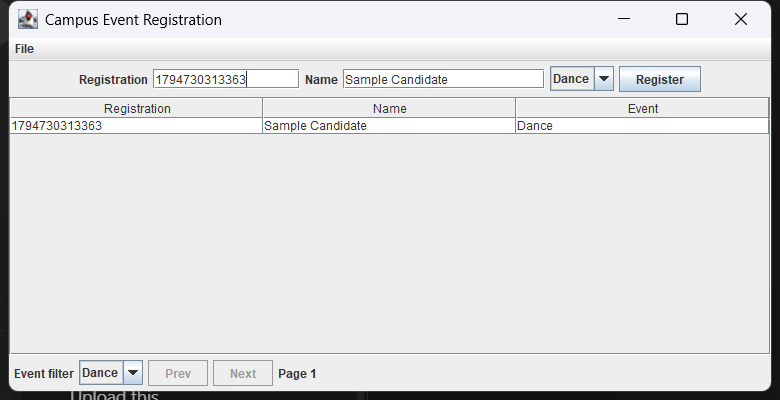
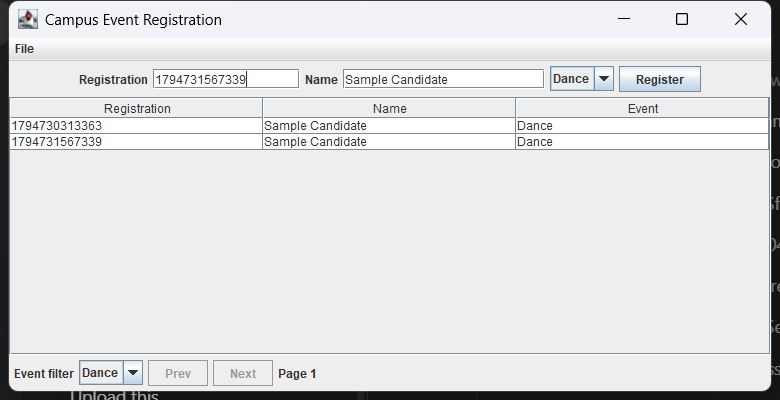
Assignment4: complete the evidence audit and index verified runs

diff --git a/scripts/GuiEvidence.java b/scripts/GuiEvidence.java
@@ -90,8 +90,18 @@ public final class GuiEvidence {
         await(() -> frame.status.getText().startsWith("Confirmed"), "Appointment completion");
         if (!edt(() -> frame.doctor.getSelectedItem().equals("Dr Khan"))) throw new AssertionError();
         capture(frame, "Task02", "successful_booking");
+        ui(() -> {
+            frame.slot.setSelectedItem("10:30");
+            frame.book.doClick();
+            EventQueue.invokeLater(() -> frame.dispatchEvent(new WindowEvent(frame, WindowEvent.WINDOW_CLOSING)));
+        });
+        JDialog confirmation = dialog(frame);
+        capture(confirmation, "Task02", "confirm_close_during_booking");
+        ui(confirmation::dispose);
+        if (!edt(frame::isShowing)) throw new AssertionError("Closing confirmation disposed the main window");
+        await(() -> frame.book.isEnabled(), "Second booking");
         ui(() -> frame.dispatchEvent(new WindowEvent(frame, WindowEvent.WINDOW_CLOSING)));
-        System.out.println("Appointments: department refresh, rejection, booking and window close verified.");
+        System.out.println("Appointments: department refresh, rejection, booking, close confirmation and cancellation verified.");
     }
 
     private static void library() throws Exception {
@@ -222,20 +232,74 @@ public final class GuiEvidence {
         await(() -> frame.status.getText().equals("Page 1"), "Filtered page");
         if (!edt(() -> frame.table.getRowCount() > 0 && frame.table.getValueAt(0, 2).equals("Dance"))) throw new AssertionError();
         capture(frame, "Task06", "event_filter");
-        Path exported = Files.createTempFile("registration-fixture", ".csv");
+        for (int i = 0; i < 30; i++) service.register(id + (100 + i), "Quiz fixture " + i, "Quiz");
+        ui(() -> frame.filter.setSelectedItem("Quiz"));
+        await(() -> frame.next.isEnabled(), "First quiz page");
+        if (!edt(() -> frame.table.getRowCount() == RegistrationDesk.PAGE)) throw new AssertionError("First page size");
+        ui(() -> frame.next.doClick());
+        await(() -> frame.status.getText().equals("Next page"), "Second quiz page");
+        if (!edt(() -> frame.prev.isEnabled() && frame.table.getRowCount() > 0
+                && frame.table.getRowCount() <= RegistrationDesk.PAGE)) throw new AssertionError("Second page controls");
+        capture(frame, "Task06", "second_page");
+        ui(() -> frame.prev.doClick());
+        await(() -> frame.status.getText().equals("Previous page"), "Return to first page");
+        Path exportDir = Files.createTempDirectory("registration-fixture");
+        Path exported = exportDir.resolve("quiz.csv");
         try {
-            int rows = service.export("Dance", exported);
-            if (rows == 0 || Files.readAllLines(exported, StandardCharsets.UTF_8).size() != rows + 1) throw new AssertionError();
-        } finally { Files.deleteIfExists(exported); }
+            ui(() -> EventQueue.invokeLater(() -> frame.getJMenuBar().getMenu(0).getItem(0).doClick()));
+            JDialog picker = dialog(frame);
+            JFileChooser chooser = edt(() -> findChooser(picker));
+            if (chooser == null) throw new AssertionError("File menu did not open a save chooser");
+            ui(() -> { chooser.setSelectedFile(exported.toFile()); chooser.approveSelection(); });
+            await(() -> frame.status.getText().startsWith("Exported "), "CSV export");
+            int rows = Integer.parseInt(edt(() -> frame.status.getText().split(" ")[1]));
+            if (rows < 30 || Files.readAllLines(exported, StandardCharsets.UTF_8).size() != rows + 1) {
+                throw new AssertionError("Export result mismatch");
+            }
+            capture(frame, "Task06", "csv_export_success");
+        } finally { Files.deleteIfExists(exported); Files.deleteIfExists(exportDir); }
         ui(frame::dispose);
-        System.out.println("Registration: live MySQL valid, invalid, duplicate, filter and CSV export verified.");
+        System.out.println("Registration: MySQL valid, invalid, duplicate, filter, next/previous and File menu CSV export verified.");
+    }
+
+    private static void drawMisspelling() throws Exception {
+        DrawPad frame = edt(() -> display(new DrawPad()));
+        Point base = edt(frame::getLocationOnScreen);
+        robot.mouseMove(base.x + 170, base.y + 105);
+        robot.mousePress(InputEvent.BUTTON1_DOWN_MASK);
+        robot.mouseRelease(InputEvent.BUTTON1_DOWN_MASK);
+        robot.delay(150);
+        if (!edt(() -> Arrays.stream(frame.getComponents()).filter(c -> c instanceof Label)
+                .anyMatch(c -> ((Label)c).getText().equals("Clicks: 0")))) {
+            throw new AssertionError("Expected misspelled callback to leave count unchanged");
+        }
+        capture(frame, "Task04", "misspelled_callback_output");
+        ui(frame::dispose);
+        System.out.println("Misspelled callback compiled without annotation. A real click left the count at zero.");
+    }
+    private static JFileChooser findChooser(Container parent) {
+        for (Component child : parent.getComponents()) {
+            if (child instanceof JFileChooser) return (JFileChooser) child;
+            if (child instanceof Container) {
+                JFileChooser found = findChooser((Container) child);
+                if (found != null) return found;
+            }
+        }
+        return null;
     }
 
     public static void main(String[] args) throws Exception {
         if (GraphicsEnvironment.isHeadless()) throw new IllegalStateException("Desktop unavailable");
         robot = new Robot();
         try {
-            fee(); appointments(); library(); draw(); converter(); registration();
+            if (args.length == 1 && args[0].equals("audit-extra")) {
+                appointments();
+                registration();
+            } else if (args.length == 1 && args[0].equals("misspelling")) {
+                drawMisspelling();
+            } else {
+                fee(); appointments(); library(); draw(); converter(); registration();
+            }
         } finally {
             ui(() -> { for (Window window : Window.getWindows()) window.dispose(); });
         }

diff --git a/EVIDENCE_AUDIT.md b/EVIDENCE_AUDIT.md
@@ -1,0 +1,18 @@
+# Evidence audit · Assignment 4
+
+Aftan Faiz · 192425004
+
+6 of 6 tasks meet the technical evidence checklist. 41 genuine PNGs are present.
+
+| Task | Java program filename | Compilation | Execution | Output verification | PNG count | Screenshot filenames | Missing requirements | Final status |
+|---|---|---|---|---|---:|---|---|---|
+| Task01 | [source/FeeServiceTest.java](Task01/source/FeeServiceTest.java)<br>[source/FeeWindow.java](Task01/source/FeeWindow.java) | Passed | Executed | Checks and captured outputs match | 6 | [compilation_success.png](Task01/evidence/compilation_success.png), [FeeServiceTest_run.png](Task01/evidence/FeeServiceTest_run.png), [invalid_registration.png](Task01/evidence/invalid_registration.png), [launch.png](Task01/evidence/launch.png), [receipt_dialog.png](Task01/evidence/receipt_dialog.png), [successful_payment.png](Task01/evidence/successful_payment.png) | None | COMPLETE |
+| Task02 | [source/AppointmentDesk.java](Task02/source/AppointmentDesk.java) | Passed | Executed | Checks and captured outputs match | 4 | [confirm_close_during_booking.png](Task02/evidence/confirm_close_during_booking.png), [invalid_patient.png](Task02/evidence/invalid_patient.png), [launch.png](Task02/evidence/launch.png), [successful_booking.png](Task02/evidence/successful_booking.png) | None | COMPLETE |
+| Task03 | [source/LibrarySearch.java](Task03/source/LibrarySearch.java) | Passed | Executed | Checks and captured outputs match | 3 | [library_480x280.png](Task03/evidence/library_480x280.png), [library_640x370.png](Task03/evidence/library_640x370.png), [library_820x500.png](Task03/evidence/library_820x500.png) | None | COMPLETE |
+| Task04 | [source/DrawPad.java](Task04/source/DrawPad.java)<br>[variants/no-annotation/DrawPad.java](Task04/variants/no-annotation/DrawPad.java)<br>[variants/with-annotation/DrawPad.java](Task04/variants/with-annotation/DrawPad.java) | Passed; expected failure captured | Executed | Expected annotated compile failure | 6 | [compiler_rejection.png](Task04/evidence/compiler_rejection.png), [dots_after_restore.png](Task04/evidence/dots_after_restore.png), [dots_before_minimize.png](Task04/evidence/dots_before_minimize.png), [launch.png](Task04/evidence/launch.png), [misspelled_callback_output.png](Task04/evidence/misspelled_callback_output.png), [misspelling_compiles.png](Task04/evidence/misspelling_compiles.png) | None | COMPLETE |
+| Task05 | [source/Converter.java](Task05/source/Converter.java)<br>[source/ConverterStyles.java](Task05/source/ConverterStyles.java) | Passed | Executed | Checks and captured outputs match | 15 | [anonymous_invalid_dialog.png](Task05/evidence/anonymous_invalid_dialog.png), [anonymous_original.png](Task05/evidence/anonymous_original.png), [anonymous_valid_dialog.png](Task05/evidence/anonymous_valid_dialog.png), [frame_invalid_dialog.png](Task05/evidence/frame_invalid_dialog.png), [frame_original.png](Task05/evidence/frame_original.png), [frame_valid_dialog.png](Task05/evidence/frame_valid_dialog.png), [lambda_invalid_dialog.png](Task05/evidence/lambda_invalid_dialog.png), [lambda_original.png](Task05/evidence/lambda_original.png), [lambda_valid_dialog.png](Task05/evidence/lambda_valid_dialog.png), [named_invalid_dialog.png](Task05/evidence/named_invalid_dialog.png), [named_original.png](Task05/evidence/named_original.png), [named_valid_dialog.png](Task05/evidence/named_valid_dialog.png), [todo_invalid_amount.png](Task05/evidence/todo_invalid_amount.png), [todo_launch.png](Task05/evidence/todo_launch.png), [todo_valid_conversion.png](Task05/evidence/todo_valid_conversion.png) | None | COMPLETE |
+| Task06 | [source/RegistrationDesk.java](Task06/source/RegistrationDesk.java) | Passed | Executed | Checks and captured outputs match | 7 | [csv_export_success.png](Task06/evidence/csv_export_success.png), [database_page.png](Task06/evidence/database_page.png), [duplicate_registration.png](Task06/evidence/duplicate_registration.png), [event_filter.png](Task06/evidence/event_filter.png), [invalid_registration.png](Task06/evidence/invalid_registration.png), [second_page.png](Task06/evidence/second_page.png), [successful_registration.png](Task06/evidence/successful_registration.png) | None | COMPLETE |
+
+The command-run PNGs are captures of the execution viewer displaying real child-process output and exit status. The Assignment 4 application PNGs capture real top-level AWT/Swing windows. CSV and text captures provide the complete records where the visible output is sampled.
+
+See [environment details](report/TestEnvironment.md) and [the written report](report/AssignmentReport.md).

diff --git a/README.md b/README.md
@@ -20,6 +20,8 @@ Run `pwsh -NoProfile -File scripts/check.ps1` from the repository root to compil
 | [Task05](Task05/ANSWERS.md) | `java -cp build Converter` and `java -cp build ConverterStyles lambda` | Button, Enter and valid/invalid outputs. Other styles are frame, named and anonymous. Append original for the button-only version. |
 | [Task06](Task06/ANSWERS.md) | `java -cp "build;PATH_TO_CONNECTOR_JAR" RegistrationDesk` | Live MySQL insert, validation, duplicate protection, filter and export |
 
-Create a local disposable MySQL database, then apply Task06/schema.sql and Task06/seed.sql to it. Supply the three environment variables described in Task06/.env.example and an absolute path to MySQL Connector/J. Verification used MySQL Community 8.4.13 and Connector/J 8.4.0. Launch Task01 without database variables for a simulated ledger. To recapture live screenshot evidence for all windows, run `pwsh -NoProfile -File scripts/check.ps1 -Gui -Connector "PATH_TO_CONNECTOR_JAR"` on an unlocked desktop with at least 900×600 available. The harness uses AWT Robot desktop capture and real widget events. It inserts a synthetic registration into the disposable database.
+Create a local disposable MySQL database, then apply Task06/schema.sql and Task06/seed.sql to it. Supply the three environment variables described in Task06/.env.example and an absolute path to MySQL Connector/J. Verification used MySQL Community 8.4.13 and Connector/J 8.4.0. Launch Task01 without database variables for a simulated ledger. To recapture live screenshot evidence for all windows, run `pwsh -NoProfile -File scripts/check.ps1 -Gui -Connector "PATH_TO_CONNECTOR_JAR"` on an unlocked desktop with at least 900×600 available. The harness uses AWT Robot desktop capture and real widget events. It inserts synthetic registration and pagination fixtures into the disposable database.
 
 See the [assignment report](report/AssignmentReport.md).
+
+See the [evidence audit](EVIDENCE_AUDIT.md) for screenshot filenames, programming results and outstanding requirements.

diff --git a/Task05/README.md b/Task05/README.md
@@ -1,0 +1,46 @@
+# Task05
+
+[Written answers](ANSWERS.md) · [Test input](input/README.md)
+
+Enter 1000 INR/USD and bad as an invalid amount. Compare original/changed requirements and four listener strategies.
+
+Build with the [repository instructions](../README.md), then execute from that repository root.
+
+```powershell
+java -cp build Converter
+java -cp build ConverterStyles lambda
+```
+
+- [gui-run.txt](evidence/gui-run.txt)
+
+## Genuine execution captures
+
+![anonymous invalid dialog](evidence/anonymous_invalid_dialog.png)
+
+![anonymous original](evidence/anonymous_original.png)
+
+![anonymous valid dialog](evidence/anonymous_valid_dialog.png)
+
+![frame invalid dialog](evidence/frame_invalid_dialog.png)
+
+![frame original](evidence/frame_original.png)
+
+![frame valid dialog](evidence/frame_valid_dialog.png)
+
+![lambda invalid dialog](evidence/lambda_invalid_dialog.png)
+
+![lambda original](evidence/lambda_original.png)
+
+![lambda valid dialog](evidence/lambda_valid_dialog.png)
+
+![named invalid dialog](evidence/named_invalid_dialog.png)
+
+![named original](evidence/named_original.png)
+
+![named valid dialog](evidence/named_valid_dialog.png)
+
+![todo invalid amount](evidence/todo_invalid_amount.png)
+
+![todo launch](evidence/todo_launch.png)
+
+![todo valid conversion](evidence/todo_valid_conversion.png)

diff --git a/Task02/ANSWERS.md b/Task02/ANSWERS.md
@@ -33,3 +33,5 @@ END ALGORITHM
 Swing invokes the constructor and initial refresh on the EDT, then setVisible posts windowOpened. Selecting Dental triggers actionPerformed and refreshDoctors. Book starts a fixture timer, which updates status and logs completion. Window close triggers windowClosing, which can confirm if pending, and dispose posts windowClosed. Applets were host-driven through init/start/stop/destroy, with painting invoked as needed. A Swing frame owns window lifecycle and component listeners. The simulated record store is shared only within the current frame.
 
 A cached map uses O(d+m) references for d departments and m doctors and expected O(1) lookup plus O(k) model population for k doctors. A JDBC-on-change design queries an index by department using parameters on a worker, discards responses superseded by newer selections and populates the model. It needs O(k) active client space, approximately O(log m+k) indexed database work and network latency per change. Cached values need a refresh rule.
+
+The desktop run also opened the close confirmation during a second booking, dismissed it and verified that the main frame stayed open.

diff --git a/Task06/ANSWERS.md b/Task06/ANSWERS.md
@@ -47,3 +47,5 @@ Validation belongs in the service. The database UNIQUE constraint resolves races
 ## 5. Verification and alternatives
 
 Try valid numeric ID/name, missing name or nonnumeric ID, then submit the same ID/event pair again. The correct outcomes are one saved row, validation failure and duplicate-key feedback. An all-at-once model stores and transfers O(n) rows including 100,000 in the stated scenario. It can keep SQL on a worker, but publishing a huge model on the EDT can stall interaction. Paging holds O(p) rows for page size p, with O(p) client transfer per query. An indexed range uses approximately O(log n + offset + p) database work because offset rows can still be visited. Deep pagination can use the last ID as a cursor. Export intentionally handles the full selected result. For bounded driver buffering, enable Connector/J cursor fetching in the URL and use the positive fetch size.
+
+The second desktop run inserted 30 additional synthetic Quiz records. It verified the 25-row first page, the second page and Previous, then invoked File > Export CSV, approved the real chooser and compared the written row count.

diff --git a/Task04/README.md b/Task04/README.md
@@ -1,0 +1,30 @@
+# Task04
+
+[Written answers](ANSWERS.md) · [Test input](input/README.md)
+
+Three mouse clicks on the canvas followed by iconification and restore. With and without @Override on misspelling.
+
+Build with the [repository instructions](../README.md), then execute from that repository root.
+
+```powershell
+java -cp build DrawPad
+```
+
+- [gui-run.txt](evidence/gui-run.txt)
+- [misspelled-callback.txt](evidence/misspelled-callback.txt)
+- [no-annotation-compile.txt](evidence/no-annotation-compile.txt)
+- [override-compiler-error.txt](evidence/override-compiler-error.txt)
+
+## Genuine execution captures
+
+![compiler rejection](evidence/compiler_rejection.png)
+
+![dots after restore](evidence/dots_after_restore.png)
+
+![dots before minimize](evidence/dots_before_minimize.png)
+
+![launch](evidence/launch.png)
+
+![misspelled callback output](evidence/misspelled_callback_output.png)
+
+![misspelling compiles](evidence/misspelling_compiles.png)

diff --git a/Task06/README.md b/Task06/README.md
@@ -1,0 +1,30 @@
+# Task06
+
+[Written answers](ANSWERS.md) · [Test input](input/README.md)
+
+Synthetic name and numeric identifier, invalid empty request, duplicate same event, Dance filter and CSV export.
+
+Build with the [repository instructions](../README.md), then execute from that repository root.
+
+```powershell
+java -cp "build;PATH_TO_CONNECTOR_JAR" RegistrationDesk
+```
+
+- [gui-run.txt](evidence/gui-run.txt)
+- [paging-export.txt](evidence/paging-export.txt)
+
+## Genuine execution captures
+
+![csv export success](evidence/csv_export_success.png)
+
+![database page](evidence/database_page.png)
+
+![duplicate registration](evidence/duplicate_registration.png)
+
+![event filter](evidence/event_filter.png)
+
+![invalid registration](evidence/invalid_registration.png)
+
+![second page](evidence/second_page.png)
+
+![successful registration](evidence/successful_registration.png)

diff --git a/Task01/README.md b/Task01/README.md
@@ -1,0 +1,29 @@
+# Task01
+
+[Written answers](ANSWERS.md) · [Test input](input/README.md)
+
+Registration 90001 and INR 150.50. Empty ID, malformed amounts, clear and receipt.
+
+Build with the [repository instructions](../README.md), then execute from that repository root.
+
+```powershell
+java -cp build FeeServiceTest
+java -cp build FeeWindow
+```
+
+- [gui-run.txt](evidence/gui-run.txt)
+- [service.txt](evidence/service.txt)
+
+## Genuine execution captures
+
+![compilation success](evidence/compilation_success.png)
+
+![FeeServiceTest run](evidence/FeeServiceTest_run.png)
+
+![invalid registration](evidence/invalid_registration.png)
+
+![launch](evidence/launch.png)
+
+![receipt dialog](evidence/receipt_dialog.png)
+
+![successful payment](evidence/successful_payment.png)

diff --git a/report/TestEnvironment.md b/report/TestEnvironment.md
@@ -1,0 +1,11 @@
+# Verification environment
+
+Aftan Faiz · 192425004
+
+- Windows NT build 10.0.26200.0, x64.
+- 12 logical processors reported by .NET. Processor identifier Intel64 Family 6 Model 151 Stepping 2, GenuineIntel.
+- Default Java and compiler Temurin 8u504. The preserved modern-syntax templates were separately checked on Temurin 17.0.21+9.
+- PowerShell 7.6.9 and Git 2.54.0.windows.1.
+- All measured durations use System.nanoTime. Inputs are generated or fixed. Averages and medians use the CSV repetitions indicated by task answers.
+- Timings are elapsed local observations. JIT compilation, OS file cache and concurrent activity were not fully controlled.
+- For the JDBC tasks the disposable host used MySQL Community 8.4.13 and MySQL Connector/J 8.4.0 on loopback.

diff --git a/Task02/README.md b/Task02/README.md
@@ -1,0 +1,24 @@
+# Task02
+
+[Written answers](ANSWERS.md) · [Test input](input/README.md)
+
+Empty or P100 patient ID, switch General to Dental, select the doctor and reserve 09:00.
+
+Build with the [repository instructions](../README.md), then execute from that repository root.
+
+```powershell
+java -cp build AppointmentDesk
+```
+
+- [close-confirmation.txt](evidence/close-confirmation.txt)
+- [gui-run.txt](evidence/gui-run.txt)
+
+## Genuine execution captures
+
+![confirm close during booking](evidence/confirm_close_during_booking.png)
+
+![invalid patient](evidence/invalid_patient.png)
+
+![launch](evidence/launch.png)
+
+![successful booking](evidence/successful_booking.png)

diff --git a/report/AssignmentReport.md b/report/AssignmentReport.md
@@ -157,5 +157,5 @@ Try valid numeric ID/name, missing name or nonnumeric ID, then submit the same I
 - [x] Six task folders and answers.
 - [x] Compiled all applications and ran the GUI evidence harness.
 - [x] Verified three library sizes, draw-pad repaint and four converter styles.
-- [x] Exercised registration against disposable MySQL.
-- [x] Saved genuine desktop screenshots and execution logs.
+- [x] Exercised registration, next/previous paging and the File-menu export against disposable MySQL.
+- [x] Saved genuine desktop screenshots, including appointment close confirmation and the inert misspelled draw-pad callback.
